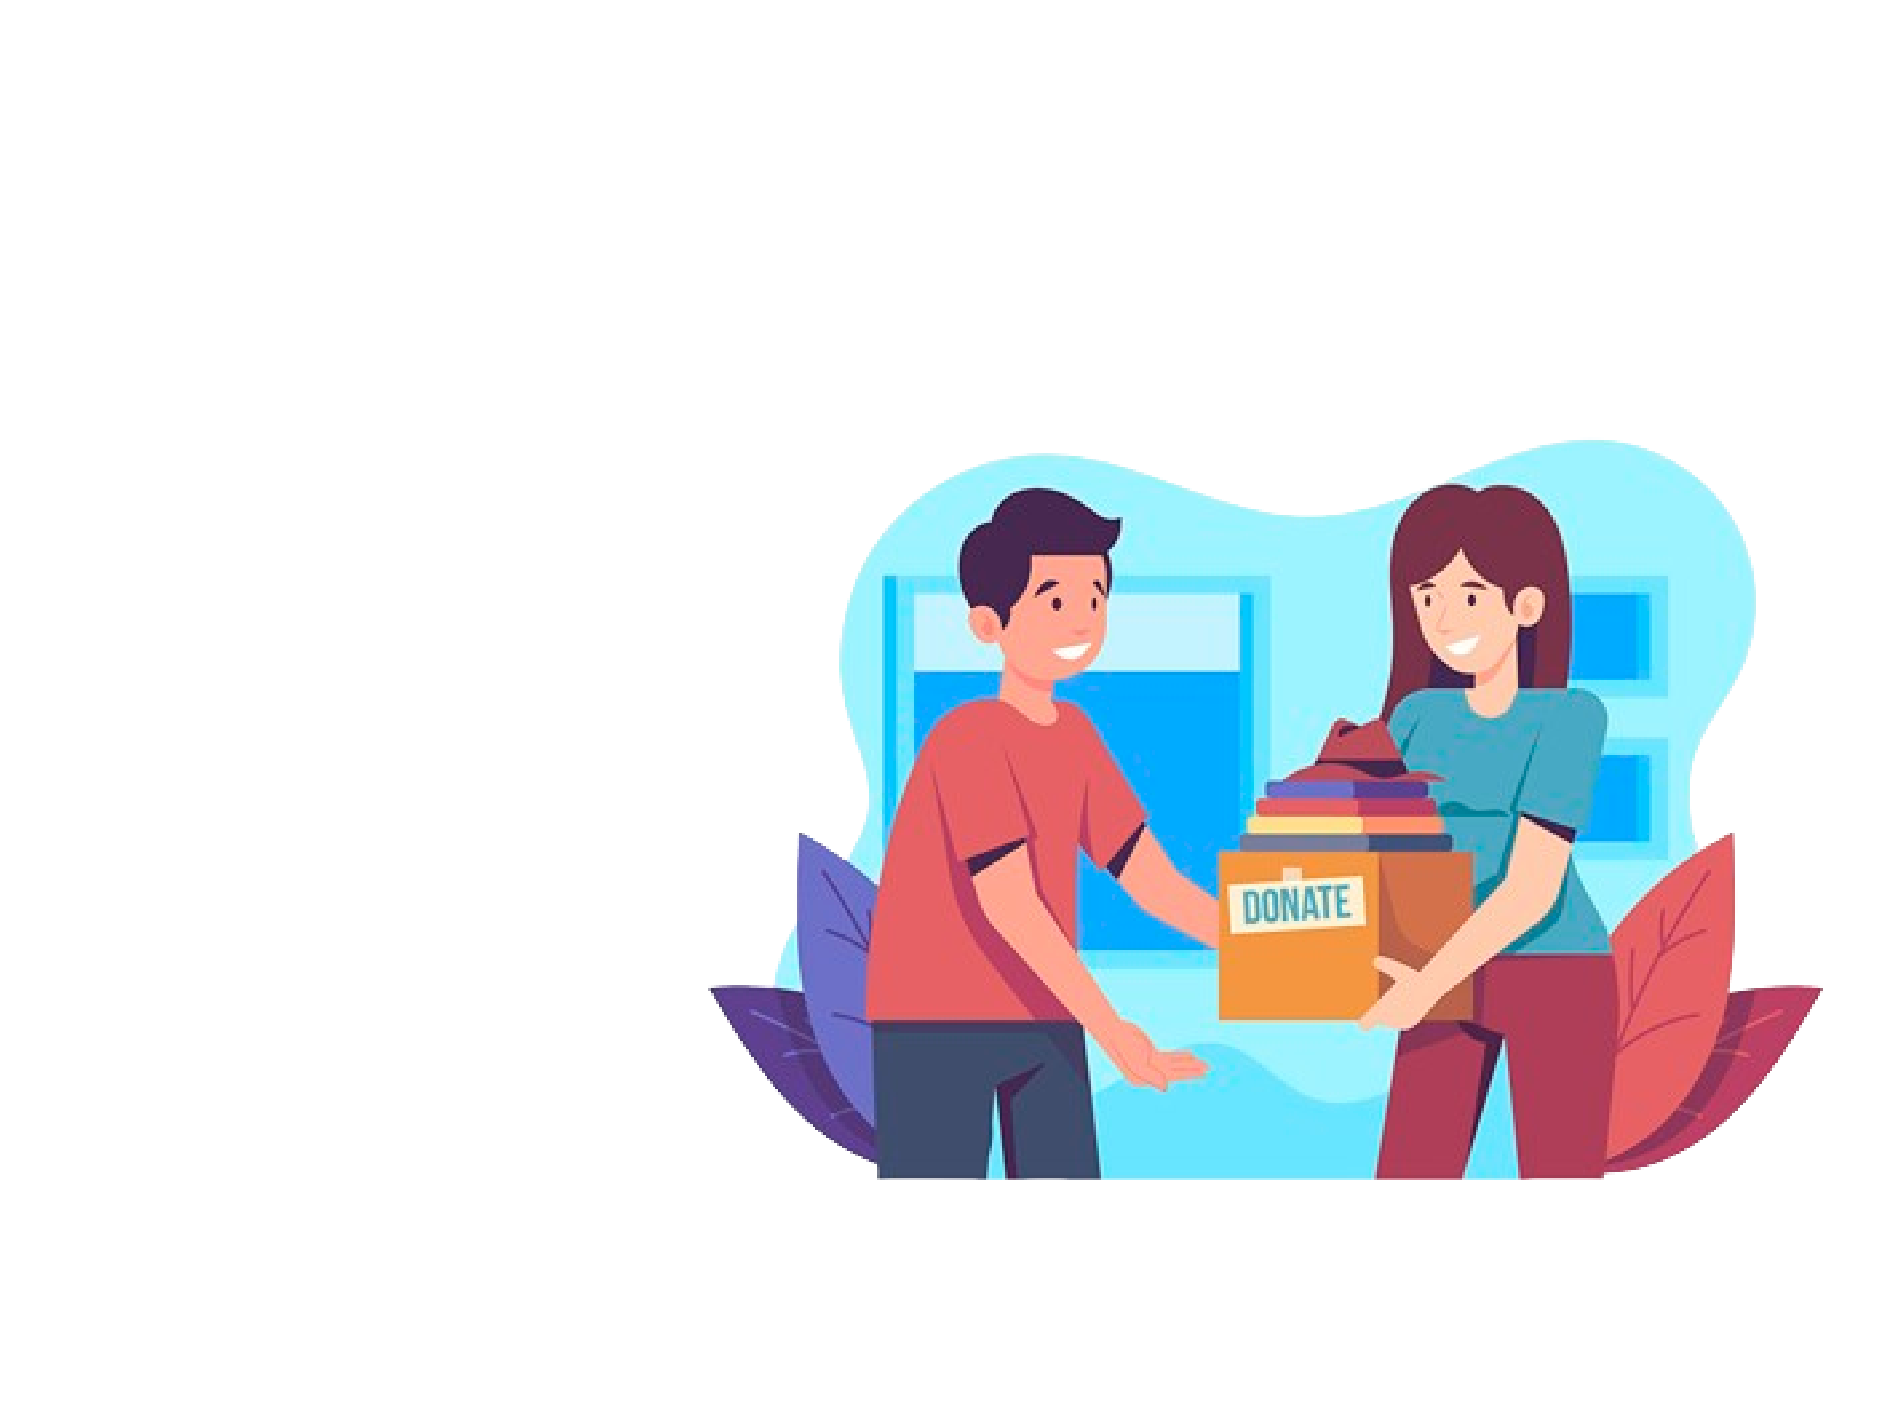
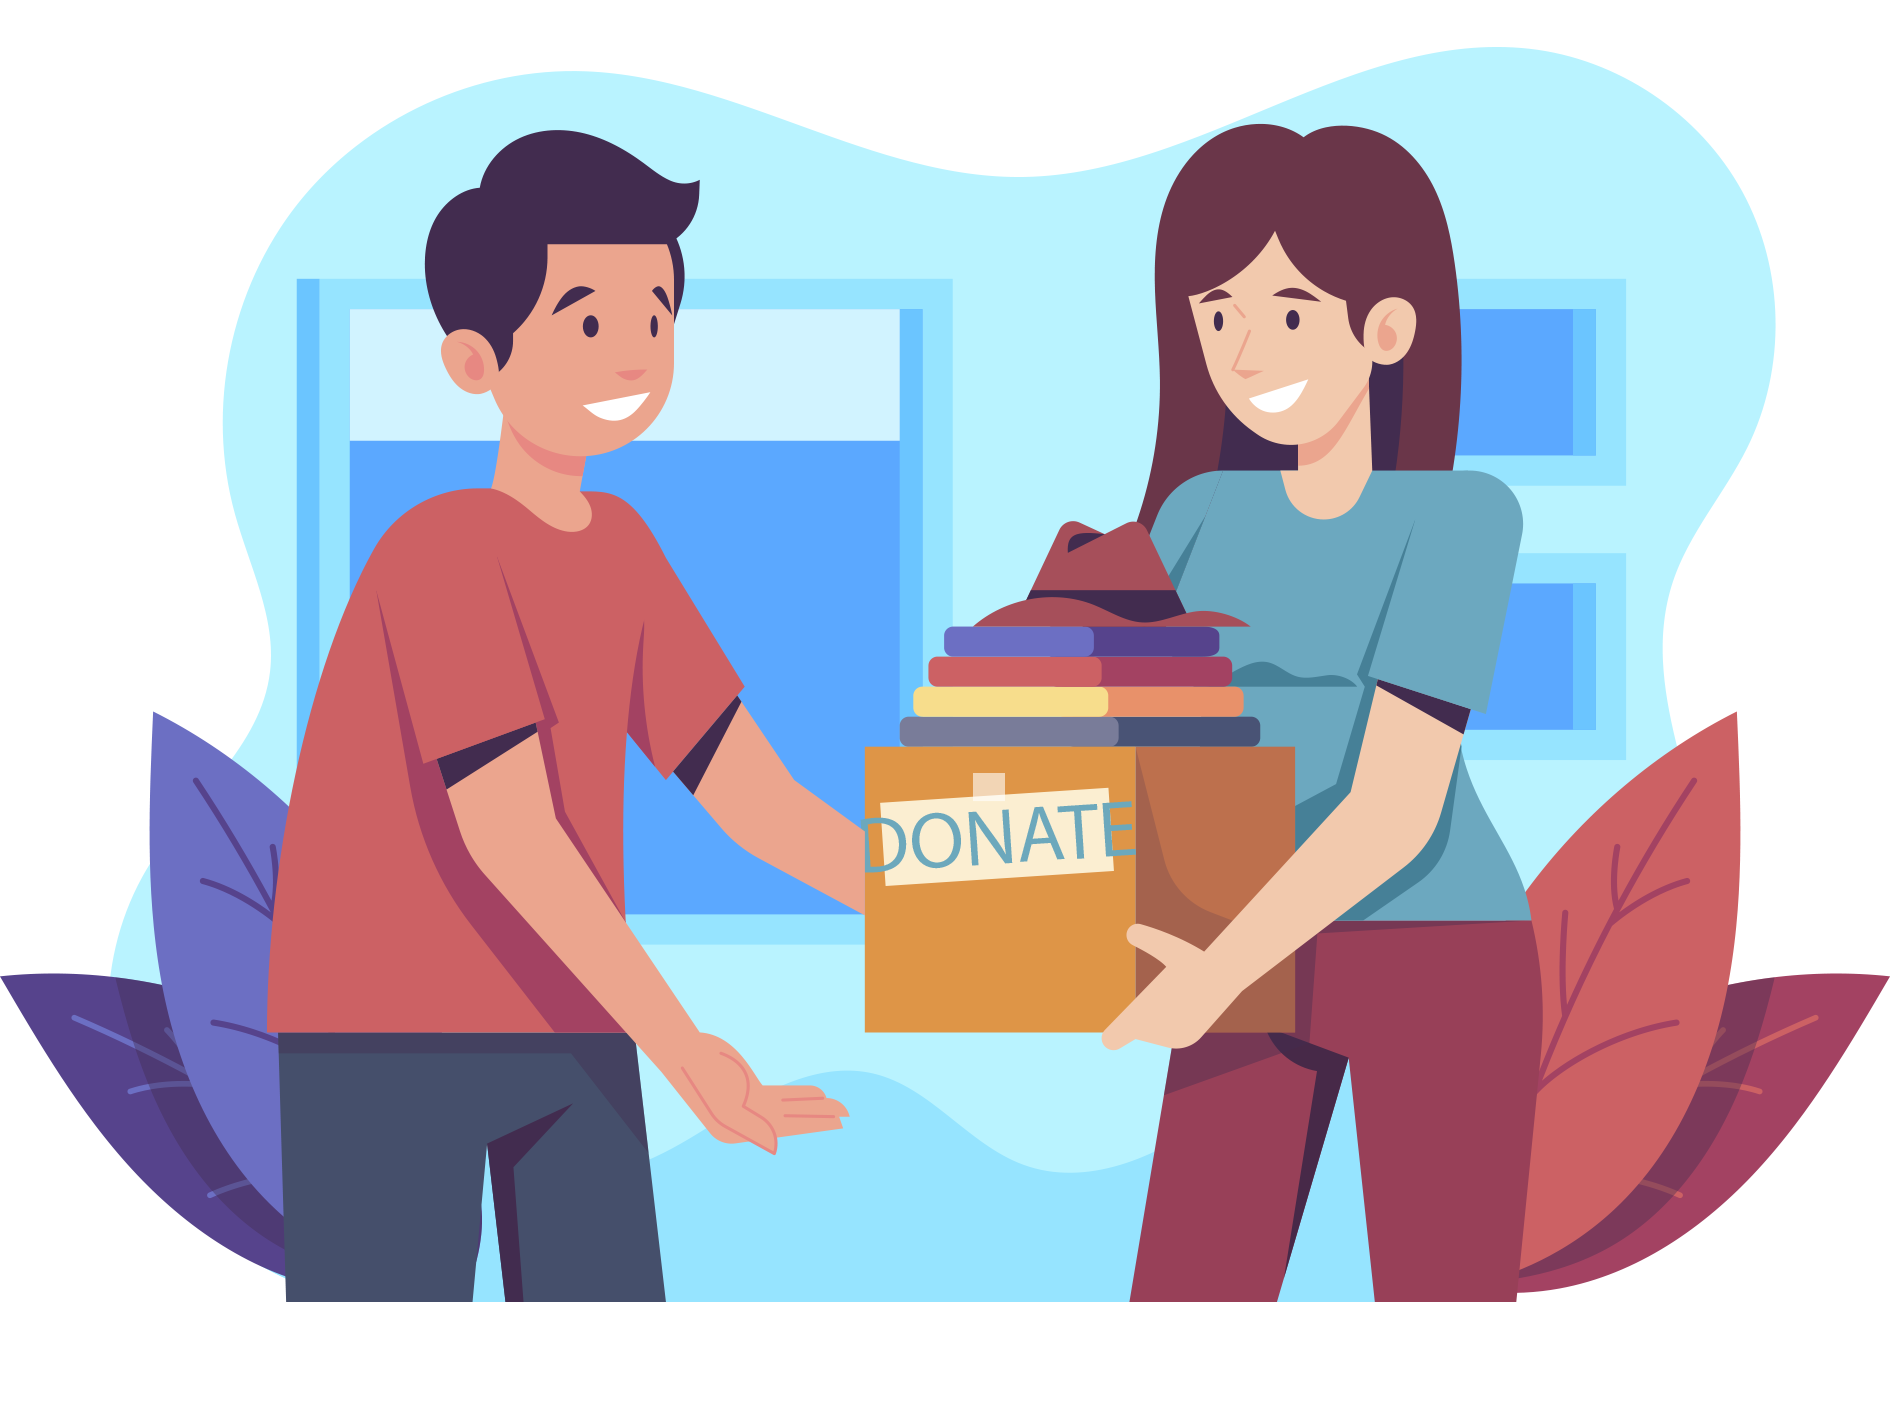
finishing the contribure part of the home page

diff --git a/src/index.css b/src/index.css
@@ -14,8 +14,8 @@ body{
   float: left;
   position: relative;
   left: 10px;
-  top: -22px;
-  width: 120px;
+  top: -25px;
+  width: 170px;
 }
 
 .navbar input{
@@ -70,15 +70,50 @@ body{
   background-color: #0cc3e2;
   float: right;
   width: 100%;
-  height: 800px ;
+  height: 700px ;
   position: relative;
   top: 70px;
 }
 
-img{
-  width:1200px;
+.firstpg img{
+  width:800px;
   position: relative;
-  top: -200px;
-  left: 300px;
+  top: -40px;
+  left: 100px;
 }
+
+.firstpg h1{
+  width: 600px;
+  font-size: 3.5em;
+  font-family: 'Franklin Gothic Medium', 'Arial Narrow', Arial, sans-serif;
+  float: left;
+  position: relative;
+  top: 150px;
+  left: 70px;
+}
+
+.firstpg h2{
+  float: left;
+  font-family: Arial, Helvetica, sans-serif;
+  font-size: 1.8em;
+  position: relative;
+  left: -530px;
+  top: 330px;
+  
+}
+
+.firstpg button{
+  height: 60px;
+  width: 240px;
+  border-radius: 100px;
+  color: white;
+  background-color: black;
+  position: relative;
+  top: -250px;
+  left: 70px;
+  font-size: 1.4em;
+  font-family: Arial, Helvetica, sans-serif;
+  border: none;
+}
+
 

diff --git a/src/Home.js b/src/Home.js
@@ -3,7 +3,10 @@ import img1 from "./Home-img1.png"
 const Home = () => {
     return ( 
         <div className="firstpg">
+            <h1>Connecting Compassion for Rapid Relief.</h1>
+            <h2>Unifying Hearts, Empowering Lives</h2>
             <img src={img1} />
+            <button>CONTRIBUTE</button>
         </div>
      );
 }
